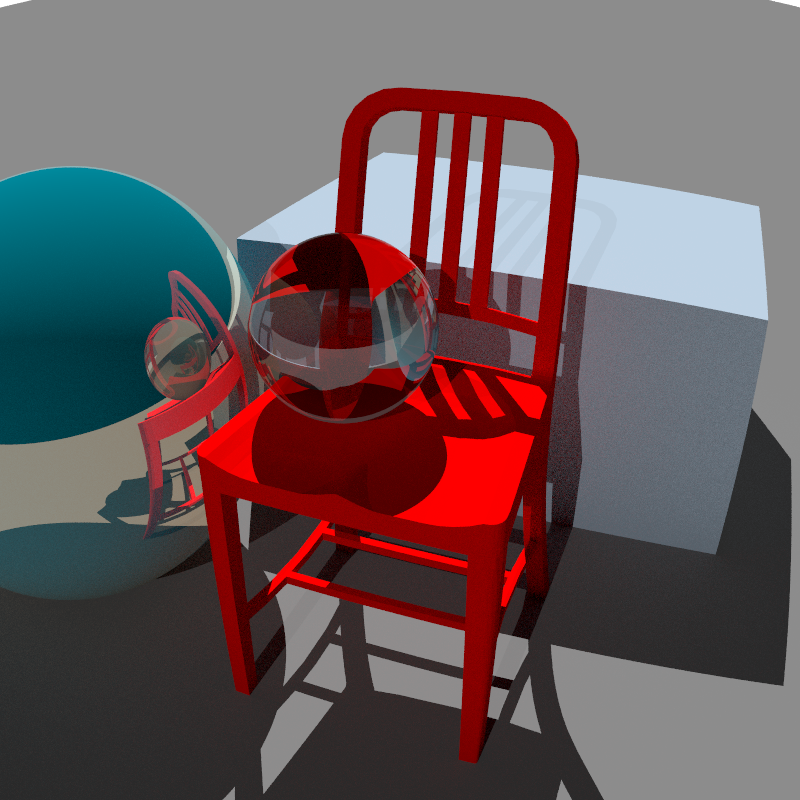
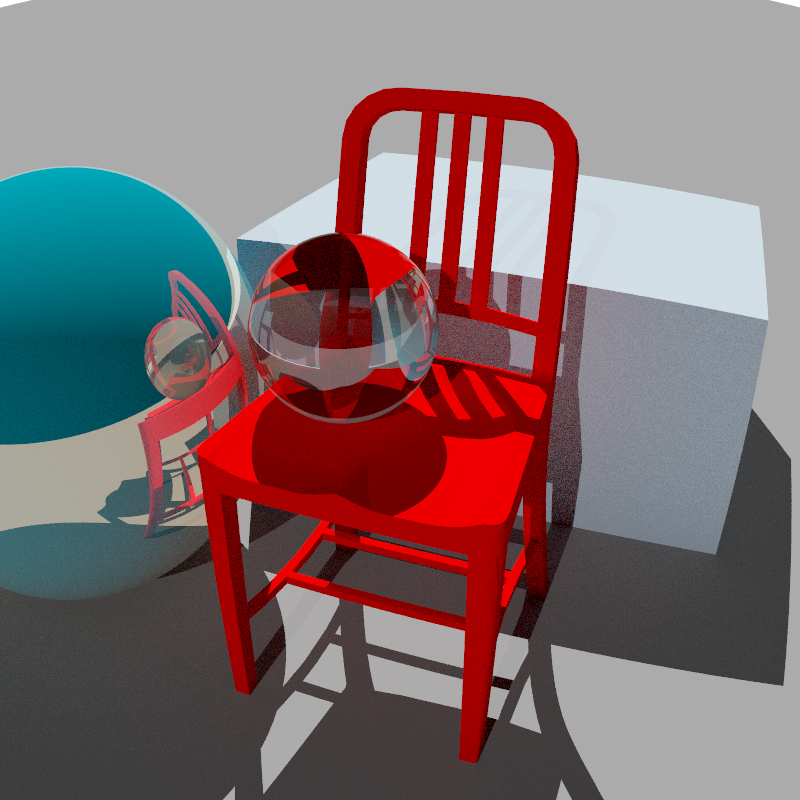
autocommit caused by update

diff --git a/markdown/hw3.md b/markdown/hw3.md
@@ -360,4 +360,4 @@ This image has half as many spheres and half the anti-aliasing of the previous i
 <p style="clear:both"></p>
 
 <a href="files/hw3redchair.txt"><img style="height:30em" class="demo floater zoom" src="files/hw3redchair.png"/></a>
-This image has 1715 triangles, 1 plane, and 2 spheres. It uses shadows, transparency, shininess, anti-aliasing, and global illumination. On my desktop my reference implementation renders it in 80 seconds.
+This image has 1715 triangles, 1 plane, and 2 spheres. It uses shadows, transparency, shininess, anti-aliasing, exposure, fisheye, and global illumination. On my desktop my reference implementation renders it in 55 seconds.
